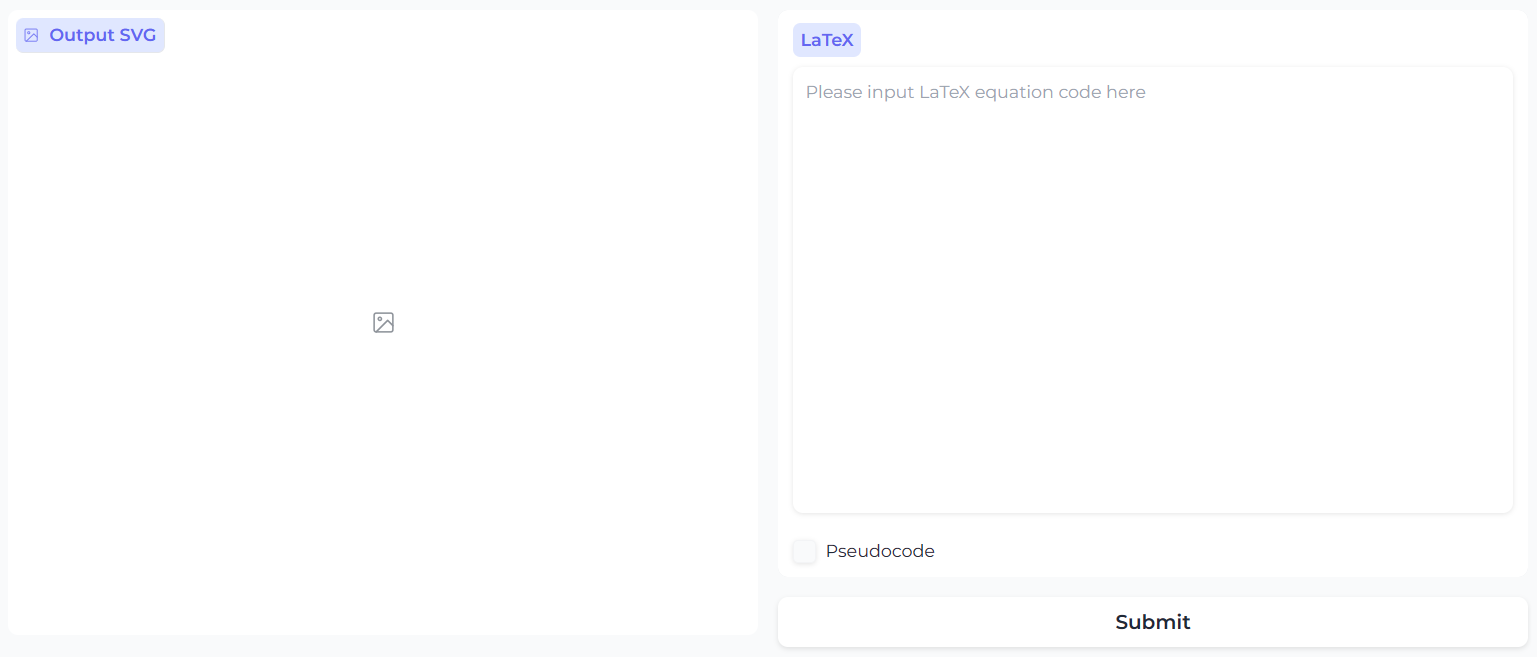
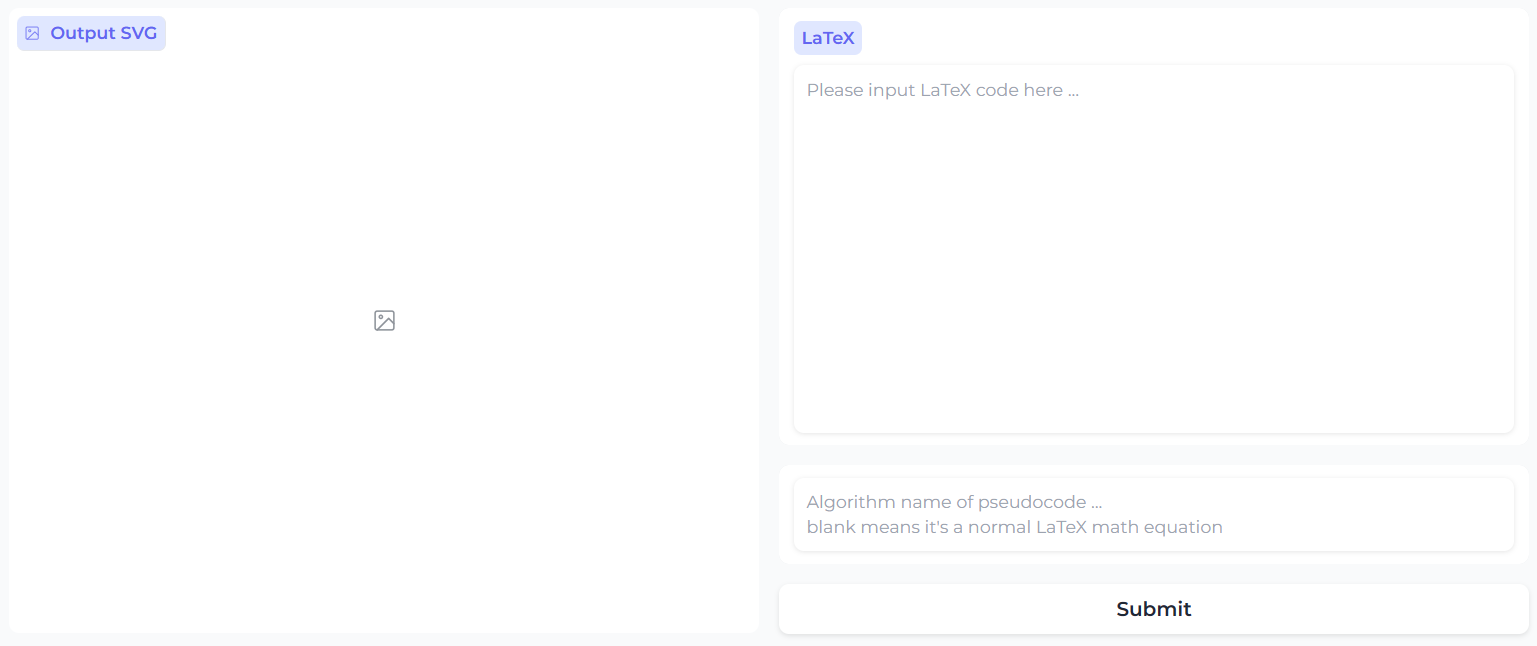
beautify WebUI

diff --git a/ui.py b/ui.py
@@ -6,15 +6,14 @@ import gradio
 import httpx
 
 
-def get_svg_image(latex_cmd: str, is_algo: bool = False) -> str:
+def pipeline(latex_cmd: str, algo_name: str = None) -> str:
     url = "http://127.0.0.1:8000/latex2svg/"
-    response = httpx.get(
-        url,
-        params={
-            "latex_cmd": latex_cmd,
-            "task_type": "simple" if not is_algo else "simple_with_algo",
-        },
-    )
+    data = {
+        "latex_cmd": latex_cmd,
+        "type": "simple" if not bool(algo_name) else "simple_with_algo",
+        "algo_name": algo_name,
+    }
+    response = httpx.post(url, json=data)
     svg_code = response.text
     temp_directory = Path(tempfile.gettempdir())
     temp_svg_path = (temp_directory / str(uuid.uuid4())).with_suffix(".svg")
@@ -29,9 +28,13 @@ if __name__ == "__main__":
             output_image_box = gradio.Image(width=500, height=500, type="filepath", label="Output SVG")
             with gradio.Column():
                 latex_input_box = gradio.Textbox(
-                    lines=16, max_lines=17, label="LaTeX", placeholder="Please input LaTeX equation code here"
+                    lines=13, max_lines=13, label="LaTeX", placeholder="Please input LaTeX code here ..."
                 )
-                is_algo_checkbox = gradio.Checkbox(label="Pseudocode")
+                with gradio.Row():
+                    algo_name_box = gradio.Textbox(
+                        show_label=False,
+                        placeholder="Algorithm name of pseudocode ...\nblank means it's a normal LaTeX math equation",
+                    )
                 submit_btn = gradio.Button("Submit")
-            submit_btn.click(fn=get_svg_image, inputs=[latex_input_box, is_algo_checkbox], outputs=output_image_box)
+            submit_btn.click(fn=pipeline, inputs=[latex_input_box, algo_name_box], outputs=output_image_box)
     demo.launch(server_name="0.0.0.0", server_port=8001)
